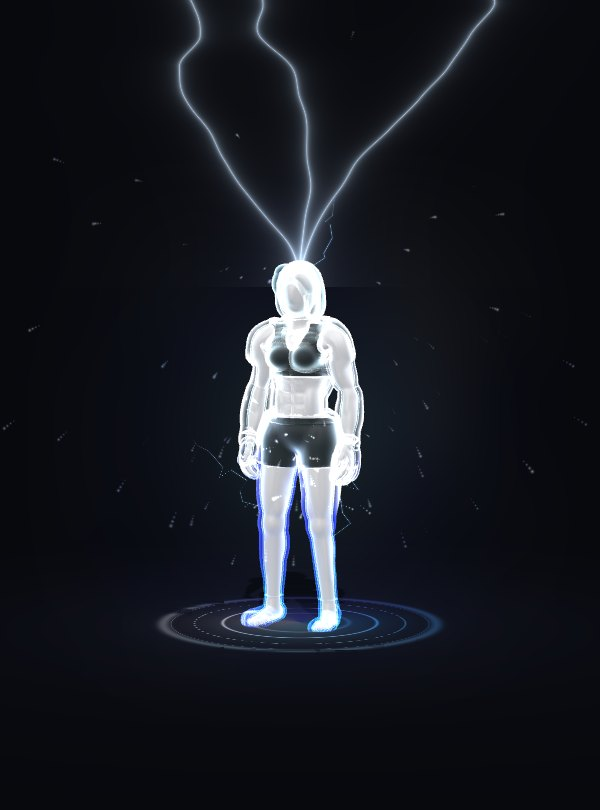
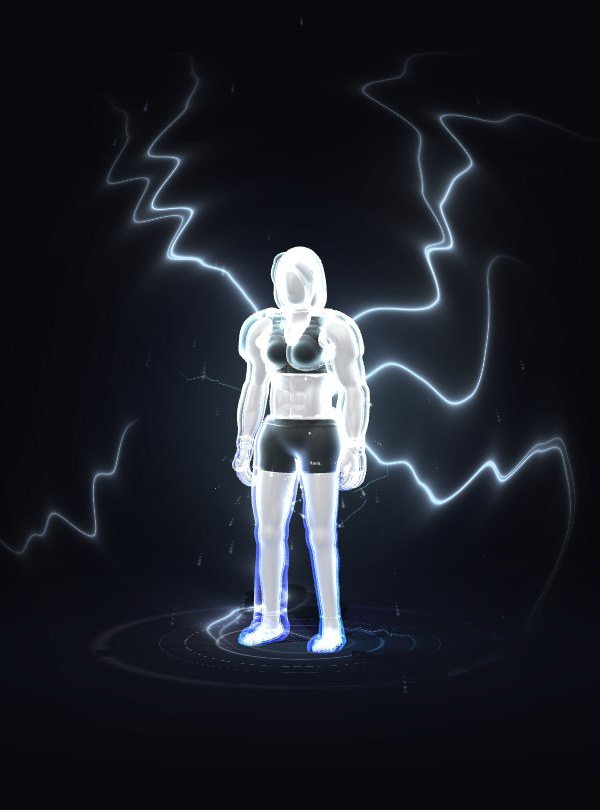
Welcome refined, theme cards as one compact row, Electric redrawn
- Get started is three quarters wide; the ignite starts slowly and gathers speed
- Sign in to start takes one rush of electric yellow
- Electric: forked lightning leaps out of the body; Aura card pictures re-rendered
- Theme cards: picture, name, line, colours and count, chosen mark, in one row

diff --git a/src/features/personalize/Personalize.tsx b/src/features/personalize/Personalize.tsx
@@ -135,27 +135,26 @@ function ThemeStep({ value, onChange, released, admin, character }: { value: The
         return (
           <button
             key={id} data-theme={id} data-scheme={t.scheme} aria-pressed={on} disabled={!open} onClick={() => onChange(id)}
-            className={cx('rise group relative isolate flex min-h-[200px] overflow-hidden rounded-card border bg-bg text-left text-ink transition-[box-shadow,transform] duration-300', on ? 'border-transparent shadow-[0_0_0_2px_var(--accent),0_24px_60px_-28px_var(--accent)]' : 'border-line-strong', !open && 'opacity-60')}
+            className={cx('rise group relative isolate flex items-center gap-4 overflow-hidden rounded-card border bg-bg p-3 pr-4 text-left text-ink transition-[box-shadow,transform] duration-300', on ? 'border-transparent shadow-[0_0_0_2px_var(--accent),0_24px_60px_-28px_var(--accent)]' : 'border-line-strong', !open && 'opacity-60')}
             style={{ animationDelay: `${i * 0.06}s` }}
           >
             <span className="page-glow !absolute" />
-            {/* A name, one line, its colours, a picture. What else a theme is, the athlete sees by trying it. */}
-            <span className="relative z-10 flex min-w-0 flex-1 flex-col justify-end p-4 pr-2 sm:p-5">
-              <span className="display block text-[34px] leading-[0.98] sm:text-[38px]">{t.name}</span>
-              <span className="display mt-2.5 block text-[17px] leading-[1.12] text-ink-2">{t.line}</span>
+            {/* One row, read left to right: the character in this theme's light, then its name, its line and its Auras, then whether it is the one chosen. */}
+            <span className="relative z-10 h-[116px] w-[92px] shrink-0 overflow-hidden rounded-[calc(var(--r-card)*0.6)] bg-(--stage) sm:w-[104px]">
+              {open
+                ? <img src={`${import.meta.env.BASE_URL}${posterOf(id, character)}`} alt="" loading="lazy" className="h-full w-full scale-[1.4] object-cover object-[50%_45%]" onError={(e) => { e.currentTarget.style.visibility = 'hidden' }} />
+                : <span className="flex h-full flex-col items-center justify-center gap-1.5 px-2 text-center text-[10.5px] leading-tight text-ink-3"><Lock size={14} />In preparation</span>}
+            </span>
+            <span className="relative z-10 min-w-0 flex-1">
+              <span className="display block text-[28px] leading-none sm:text-[30px]">{t.name}</span>
+              <span className="mt-2 block text-[13.5px] leading-snug text-ink-2">{t.line}</span>
               {/* Its Auras (or forms, or states), each in its own colour, and how many there are. */}
-              <span className="mt-4 flex items-center gap-2.5" data-forms>
-                <span className="flex gap-1.5">{u.list.map((f) => <span key={f.id} title={f.name} className="h-3 w-3 rounded-full" style={{ background: f.colour, boxShadow: `0 0 8px ${f.colour}` }} />)}</span>
-                <span className="text-[12.5px] text-ink-2">{u.list.length} {u.forms === 'Aura' ? 'Auras' : `${u.forms.toLowerCase()}s`}</span>
+              <span className="mt-3 flex items-center gap-2.5" data-forms>
+                <span className="flex gap-1.5">{u.list.map((f) => <span key={f.id} title={f.name} className="h-2.5 w-2.5 rounded-full" style={{ background: f.colour, boxShadow: `0 0 7px ${f.colour}` }} />)}</span>
+                <span className="text-[12px] text-ink-3">{u.list.length} {u.forms === 'Aura' ? 'Auras' : `${u.forms.toLowerCase()}s`}</span>
               </span>
             </span>
-            {/* The character of this universe, in its own light. */}
-            <span className="relative z-10 m-2.5 ml-0 w-[38%] shrink-0 overflow-hidden rounded-[calc(var(--r-card)*0.7)] bg-(--stage)">
-              {open
-                ? <img src={`${import.meta.env.BASE_URL}${posterOf(id, character)}`} alt="" loading="lazy" className="h-full w-full object-cover object-top" onError={(e) => { e.currentTarget.style.visibility = 'hidden' }} />
-                : <span className="flex h-full flex-col items-center justify-center gap-2 px-3 text-center text-[11.5px] text-ink-3"><Lock size={15} />In preparation</span>}
-            </span>
-            {on && <span className="absolute top-3 right-3 z-20 flex h-6 w-6 items-center justify-center rounded-full bg-accent text-accent-ink"><Check size={14} strokeWidth={3} /></span>}
+            <span className={cx('relative z-10 flex h-6 w-6 shrink-0 items-center justify-center rounded-full', on ? 'bg-accent text-accent-ink' : 'border border-line-strong')}>{on && <Check size={14} strokeWidth={3} />}</span>
           </button>
         )
       })}

diff --git a/src/features/onboarding/Onboarding.tsx b/src/features/onboarding/Onboarding.tsx
@@ -11,7 +11,7 @@ import { useStore } from '@/data/store'
 import { handleFree, signInWithGoogle, signOut, useCloud } from '@/data/cloud'
 import { GoogleButton, Notice } from '@/features/account/Account'
 import { requestCoach } from '@/features/account/CoachAccess'
-import { AuraField } from '@/ui/AuraField'
+import { AuraField, IGNITE_SECONDS } from '@/ui/AuraField'
 import { CountUp } from '@/ui/CountUp'
 import { DisciplineDot, Eyebrow, StatusTag, Stepper, Toggle } from '@/ui/primitives'
 import { Wordmark } from '@/app/Shell'
@@ -219,7 +219,7 @@ export function Onboarding() {
     if (igniting) return
     if (window.matchMedia('(prefers-reduced-motion: reduce)').matches) return then()
     setIgniting(true)
-    window.setTimeout(() => { then(); setIgniting(false) }, 1450)
+    window.setTimeout(() => { then(); setIgniting(false) }, IGNITE_SECONDS * 1000 - 80)
   }
   const firstName = name.trim().split(' ')[0] || 'Athlete'
 
@@ -253,7 +253,7 @@ export function Onboarding() {
                 <button onClick={() => setAccountStep(false)} aria-label="Back" className="pressable -ml-2 flex h-10 w-10 items-center justify-center rounded-full text-ink-2 hover:text-ink"><ArrowLeft size={19} /></button>
               </header>
               <div className="flex flex-1 flex-col justify-center">
-                <h1 className="display text-[42px] leading-[1.04]">Sign in to start.</h1>
+                <h1 className="display rush self-start text-[42px] leading-[1.04]">Sign in to start.</h1>
                 <p className="mt-4 text-[16px] leading-relaxed text-ink-2">So your results are saved, and still here the next time you open Aura.</p>
                 <p className="mt-4 text-[16px] leading-relaxed text-ink-2">Next come a few questions about what you can do today. It takes two minutes, and you get your first Aura score.</p>
               </div>
@@ -277,15 +277,15 @@ export function Onboarding() {
                 <AuraField mix={EVEN} aura={7200} size={Math.round(Math.min(300, Math.max(132, tall * 0.33)))} ignite={igniting}>
                   <Wordmark size={tall < 620 ? 40 : 54} />
                 </AuraField>
-                <h1 className={cx('display mt-[2.5dvh] text-[clamp(31px,5.6dvh,52px)] leading-[1.02] transition-opacity delay-700 duration-500', igniting && 'opacity-0')}>Discover the limitless potential <span className="italic">of your body.</span></h1>
-                <p className={cx('mt-[2dvh] max-w-sm text-[15.5px] leading-relaxed text-ink-2 transition-opacity delay-700 duration-500', igniting && 'opacity-0')}>
+                <h1 className={cx('display mt-[2.5dvh] text-[clamp(31px,5.6dvh,52px)] leading-[1.02] transition-opacity delay-[1700ms] duration-500', igniting && 'opacity-0')}>Discover the limitless potential <span className="italic">of your body.</span></h1>
+                <p className={cx('mt-[2dvh] max-w-sm text-[15.5px] leading-relaxed text-ink-2 transition-opacity delay-[1700ms] duration-500', igniting && 'opacity-0')}>
                   Aura shows you exactly where you are today, and every step to where you’ve always dreamed of going.
                 </p>
               </div>
               <div className={cx('flex w-full max-w-sm shrink-0 flex-col gap-2.5 pt-[2.5dvh] transition-opacity duration-500', igniting && 'pointer-events-none opacity-0')}>
                 {configured
-                  ? <button className="btn btn-primary btn-lg" data-get-started onClick={() => ignite(() => setAccountStep(true))}>Get started <ArrowRight size={17} /></button>
-                  : <button className="btn btn-primary btn-lg" data-get-started onClick={() => ignite(() => setStep(1))}>Begin <ArrowRight size={17} /></button>}
+                  ? <button className="btn btn-primary btn-lg w-3/4 self-center" data-get-started onClick={() => ignite(() => setAccountStep(true))}>Get started <ArrowRight size={17} /></button>
+                  : <button className="btn btn-primary btn-lg w-3/4 self-center" data-get-started onClick={() => ignite(() => setStep(1))}>Begin <ArrowRight size={17} /></button>}
                 {/* Only on a developer's machine (npm run dev): a public build never has this. */}
                 {configured && import.meta.env.DEV && (
                   <button className="btn btn-quiet btn-sm self-center" data-local-start onClick={() => ignite(() => setStep(1))}>Without signing in · this computer only</button>

diff --git a/src/styles/index.css b/src/styles/index.css
@@ -696,9 +696,13 @@
   mix-blend-mode: soft-light;
 }
 
-/* Ignite (the welcome's "Get started"): the border round the clock fills in the six colours, the field gathers, bursts, and is gone. */
+/* Ignite (the welcome's "Get started"): the border round the clock fills in the six colours, slowly at first and then faster,
+   while the field turns faster with it; then it gathers, bursts, and is gone. Timings go with IGNITE_* in AuraField.tsx. */
 .aura-ignite {
-  animation: aura-ignite 1.5s cubic-bezier(0.4, 0, 0.2, 1) forwards;
+  animation: aura-ignite 2.75s linear forwards;
+}
+.aura-ignite .aura-orbit {
+  animation: aura-ignite-spin 1.95s cubic-bezier(0.75, 0, 1, 0.6) forwards;
 }
 .aura-ignite-arc {
   stroke-dasharray: 1;
@@ -714,7 +718,7 @@
   box-shadow: 0 0 40px 10px color-mix(in oklab, var(--accent) 70%, transparent), inset 0 0 40px 6px color-mix(in oklab, var(--accent) 45%, transparent);
   opacity: 0;
   pointer-events: none;
-  animation: aura-ignite-wave 0.75s 0.82s cubic-bezier(0.2, 0.7, 0.3, 1) forwards;
+  animation: aura-ignite-wave 0.8s 2s cubic-bezier(0.2, 0.7, 0.3, 1) forwards;
 }
 .aura-ignite-flash {
   position: fixed;
@@ -722,16 +726,19 @@
   pointer-events: none;
   background: radial-gradient(circle at 50% 32%, rgba(255, 255, 255, 0.55), color-mix(in oklab, var(--accent) 30%, transparent) 35%, transparent 70%);
   opacity: 0;
-  animation: aura-ignite-flash 0.7s 0.85s ease-out forwards;
+  animation: aura-ignite-flash 0.75s 2.02s ease-out forwards;
 }
 @keyframes aura-ignite-arc {
   to { stroke-dashoffset: 0; }
 }
+@keyframes aura-ignite-spin {
+  to { transform: rotate(600deg); }
+}
 @keyframes aura-ignite {
-  0% { transform: scale(1); filter: brightness(1); }
-  45% { transform: scale(1.03); filter: brightness(1.25); }
-  56% { transform: scale(0.95); filter: brightness(1.45); }
-  68% { transform: scale(1.18); filter: brightness(2.1) saturate(1.3); opacity: 1; }
+  0% { transform: scale(1); filter: brightness(1); animation-timing-function: ease-in; }
+  62% { transform: scale(1.04); filter: brightness(1.35); animation-timing-function: ease-in-out; }
+  71% { transform: scale(0.94); filter: brightness(1.55); animation-timing-function: cubic-bezier(0.2, 0.7, 0.3, 1); }
+  79% { transform: scale(1.18); filter: brightness(2.1) saturate(1.3); opacity: 1; }
   100% { transform: scale(1.9); filter: brightness(2.6) saturate(1.2); opacity: 0; }
 }
 @keyframes aura-ignite-wave {
@@ -744,7 +751,30 @@
   100% { opacity: 0; }
 }
 @media (prefers-reduced-motion: reduce) {
-  .aura-ignite, .aura-ignite-arc, .aura-ignite-wave, .aura-ignite-flash { animation-duration: 0.01s; animation-delay: 0s; }
+  .aura-ignite, .aura-ignite .aura-orbit, .aura-ignite-arc, .aura-ignite-wave, .aura-ignite-flash { animation-duration: 0.01s !important; animation-delay: 0s !important; }
+}
+
+/* A heading that takes one rush of electric yellow, left to right, and is itself again (the account step). */
+.rush {
+  background: linear-gradient(100deg, var(--text) 0%, var(--text) 38%, #ffd400 45%, #fff8b8 50%, #ffe600 55%, var(--text) 62%, var(--text) 100%);
+  background-size: 320% 100%;
+  background-position: 100% 0;
+  -webkit-background-clip: text;
+  background-clip: text;
+  -webkit-text-fill-color: transparent;
+  color: transparent;
+  animation: rush 1.15s 0.45s cubic-bezier(0.5, 0, 0.3, 1) both, rush-glow 1.15s 0.45s ease-in-out both;
+}
+@keyframes rush {
+  from { background-position: 100% 0; }
+  to { background-position: 0 0; }
+}
+@keyframes rush-glow {
+  0%, 100% { filter: none; }
+  45% { filter: drop-shadow(0 0 14px rgba(255, 224, 0, 0.75)); }
+}
+@media (prefers-reduced-motion: reduce) {
+  .rush { animation: none; background-position: 0 0; }
 }
 
 @keyframes aura-orbit {

diff --git a/src/visual/aura/field.ts b/src/visual/aura/field.ts
@@ -217,21 +217,32 @@ export class AuraField {
           col = mix(pal(gr * 0.5 + ga * 0.159), vec3(1.0), min(1.0, core * 0.8 + star));
           a = (disc * 1.5 + core * 0.9 + star) * inn * fade;
         } else if (uKind < 2.5) {
-          // Bolt: lightning comes down out of the dark and meets at the head, again and again, with a flash.
-          float flick = floor(b * 11.0);
+          // Bolt: the body is where the lightning comes from. Forked arcs leap out of the chest in every direction, never the same twice, with a flash.
+          vec2 d2 = q - vec2(0.0, 0.1);
+          float er = length(d2), eth = atan(d2.y, d2.x);
+          float flick = floor(b * 13.0);
           float sum = 0.0;
-          for (int i = 0; i < 3; i++) {
+          for (int i = 0; i < 8; i++) {
             float fi = float(i);
-            float seed = fi * 7.31 + flick * 1.7;
-            float on = step(0.12, hash(vec3(seed, 1.0, 2.0)));
-            float top = smoothstep(0.44, 1.5, q.y);
-            float px = ((fi - 1.0) * 0.6 + (noise(vec3(q.y * 3.2, seed, 0.0)) - 0.5) * 0.8 + (noise(vec3(q.y * 11.0, seed, 3.0)) - 0.5) * 0.18) * top;
-            float d = abs(q.x - px);
-            sum += on * (0.006 / (d + 0.005)) * exp(-d * 5.0) * step(0.44, q.y);
+            float seed = fi * 5.17 + flick * 2.3;
+            float h1 = hash(vec3(seed, 1.0, 2.0)), h2 = hash(vec3(seed, 4.0, 9.0));
+            float reach = (0.5 + 0.85 * h2) * (0.55 + 0.45 * grow);
+            // Each arc wanders off its line more the further out it gets, in large kinks and small ones.
+            float wander = ((noise(vec3(er * 4.5, seed, 0.0)) - 0.5) * 1.1 + (noise(vec3(er * 15.0, seed, 3.0)) - 0.5) * 0.3) * smoothstep(0.0, 0.35, er);
+            float at = (fi + h1) / 8.0 * 6.2832 + wander;
+            float da = abs(mod(eth - at + 3.1416, 6.2832) - 3.1416);
+            float d = da * er;
+            float taper = smoothstep(reach, reach * 0.55, er) * smoothstep(0.03, 0.12, er);
+            sum += step(0.22, h1) * (0.0075 / (d + 0.005)) * exp(-d * 6.0) * taper;
+            // A fork leaves it part of the way out.
+            float fat = at + (h2 - 0.5) * 1.3 * smoothstep(reach * 0.4, reach, er);
+            float fd = abs(mod(eth - fat + 3.1416, 6.2832) - 3.1416) * er;
+            sum += step(0.5, h2) * (0.0035 / (fd + 0.004)) * exp(-fd * 9.0) * taper * smoothstep(reach * 0.4, reach * 0.5, er);
           }
-          float flash = exp(-b * 8.0) * exp(-r * 1.3);
-          col = mix(uPal[1], vec3(1.0), 0.78);
-          a = (min(sum, 2.5) * 0.7 * (1.0 - smoothstep(1.0, 1.6, b)) + flash) * inn;
+          float flash = exp(-b * 7.0) * exp(-er * er * 2.4);
+          float charge = exp(-er * er * 9.0) * 0.25 * (0.6 + 0.4 * sin(uTime * 40.0));
+          col = mix(uPal[1], vec3(1.0), 0.72);
+          a = (min(sum, 2.5) * 0.9 * (1.0 - smoothstep(1.2, 1.9, b)) + flash + charge * fade) * inn;
         } else if (uKind < 3.5) {
           // Sun: it rises behind the shoulders, a bright disc with a turning corona, and the body stands against it.
           vec2 d2 = q - vec2(0.0, mix(-0.3, 0.2, grow));

diff --git a/src/ui/AuraField.tsx b/src/ui/AuraField.tsx
@@ -5,6 +5,11 @@ import { dvar } from '@/lib/format'
 /** Clockwise from the top. Shared by the Aura field and the DNA sigil. */
 export const WHEEL: DisciplineId[] = ['handstand', 'push', 'core', 'legs', 'mobility', 'pull']
 
+/** Ignite: how long the ring takes to fill (seconds), how strongly it accelerates, and how long the whole thing lasts until the next screen. */
+const IGNITE_FILL = 1.7
+const IGNITE_EASE = 2.6
+export const IGNITE_SECONDS = 2.75
+
 interface Props {
   /** Each discipline's share of the athlete's total rating. */
   mix: Record<DisciplineId, number>
@@ -112,7 +117,8 @@ export function AuraField({ mix, aura, size = 320, progress, rings = true, ignit
               <path
                 key={d} d={`M ${at(i * 60)} A ${r} ${r} 0 0 1 ${at(i * 60 + 60.5)}`} pathLength={1}
                 className="aura-ignite-arc" fill="none" stroke={dvar(d)} strokeWidth="1.3" strokeLinecap="round"
-                style={{ animationDelay: `${i * 0.12}s` }}
+                // It starts slowly and gathers speed: each sixth of the ring takes less time than the one before.
+                style={{ animationDelay: `${IGNITE_FILL * Math.pow(i / 6, 1 / IGNITE_EASE)}s`, animationDuration: `${IGNITE_FILL * (Math.pow((i + 1) / 6, 1 / IGNITE_EASE) - Math.pow(i / 6, 1 / IGNITE_EASE))}s` }}
               />
             )
           })}

diff --git a/REGISTER.md b/REGISTER.md
@@ -193,10 +193,10 @@ Reference: [VISUALS.md](VISUALS.md) §11 to §13. Theme data: `src/theme/`. "Pro
 | F-152 | **The sample world is no longer offered on the welcome screen** (owner's request, 2026-11-19). It still exists for testing and is opened by address only: `…/?demo` | Sample data | T-20; every journey now enters this way | Nobody finds it by accident. Coach Studio can therefore be looked at without an account only by someone who knows the address | F-01 |
 | F-153 | **At rest an Aura is a strong glow; Activate charges it and lets it burst.** Every theme in every universe: only the burning outline and its field while standing; rays, ribbons, particles, streams, rings, lightning only in a burst. *Activate* on the character (profile, Personalize, Character Studio) gathers for about a second, bursts, and settles. A set in a demonstration no longer bursts by itself | Working (local) | Rendered at rest, gathering, bursting and after, for 4 Aura themes, 4 Goku forms, 3 Baki forms and the paper stage (Goku Light); on the profile: Activate charges, bursts, is ready again (T-20) | Changes how every Aura looks: **look at your forms in the Character Studio**. The theme posters shown before a character is chosen are still the earlier pictures, with ribbons. The instructor screen still bursts in Electric. Exercise demonstrations show no Aura, as before | F-120, F-148 |
 | F-154 | **The introduction lights what it talks about in the theme's colour**, with a glow round it, and the tab of the page you are on is in that colour too. It ends on *Go to profile*, with *Start first training* under it, quieter. Back on the profile, **Personalize wears an Aura**: a ring of the six discipline colours turns round the button with their light pulsing behind it (made stronger at the owner's request the same day), until the button is pressed once or nothing is left to personalize | Working (local) | T-20: the lit tab in the theme colour, the ending's two actions, Personalize calling with its ring and light, still calling with a theme already chosen, stopping once pressed; the journeys re-run | The glow shows only after the introduction was seen or skipped, so it never competes with "Start here" | F-143 |
-| F-155 | **The theme cards are a name, one line, the colours of its Auras with how many there are, and a picture** (first cut to name, line and picture; the colours and count came back the same day at the owner's request; the tooltip is gone). The Aura themes' picture is now the master character in the **Electric** Aura under its lightning (`npm run posters -- aura`, `scripts/render-posters.mjs`, from the live 3D characters). The page's own line is one sentence | Working (local) | In a browser: the card's text, the new picture on both Aura cards (owner's screenshot 2026-11-19 as the brief) | **Only the two Aura pictures were remade.** Goku, Goku Light and Baki keep their earlier pictures; the same script remakes them when wanted. The picture shows Electric although an athlete starts in Cosmic: it shows what the theme can be | F-121 |
-| F-156 | **"Get started" ignites the circle**: the ring round the clock fills clockwise in the six discipline colours, the Aura gathers and bursts outward in a wave and a flash, and the next screen comes out of it (about 1.5 s). Also on *Begin* (without accounts). With reduced motion it goes straight on | Working (local) | Filmed in a browser at eight moments; the account step follows; the onboarding journey re-run with it | – | F-150 |
+| F-155 | **The theme cards are one compact row**: the character's picture, then the name, one line, the colours of its Auras with how many there are, then whether it is chosen (rebuilt at the owner's request; a card is about 140 high where it was over 200) (first cut to name, line and picture; the colours and count came back the same day at the owner's request; the tooltip is gone). The Aura themes' picture is now the master character in the **Electric** Aura with lightning leaping out of the body (`npm run posters -- aura`, `scripts/render-posters.mjs`, from the live 3D characters). The page's own line is one sentence | Working (local) | In a browser: the card's text, the new picture on both Aura cards (owner's screenshot 2026-11-19 as the brief) | **Only the two Aura pictures were remade.** Goku, Goku Light and Baki keep their earlier pictures; the same script remakes them when wanted. The picture shows Electric although an athlete starts in Cosmic: it shows what the theme can be | F-121 |
+| F-156 | **"Get started" ignites the circle**: the ring round the clock fills clockwise in the six discipline colours, the Aura gathers and bursts outward in a wave and a flash, and the next screen comes out of it. **It starts slowly and gathers speed** (about 2.7 s in all; the first version was 1.5 s and felt rushed). The button is three quarters of the width. On the next screen, *Sign in to start.* takes one rush of electric yellow from left to right and is white again. Also on *Begin* (without accounts). With reduced motion it goes straight on | Working (local) | Filmed in a browser at eight moments; the account step follows; the onboarding journey re-run with it | – | F-150 |
 | F-157 | **On a developer's machine only, a way in without Google**: *Without signing in · this computer only* on the welcome, under Get started. It runs the same questions and makes a local profile on that computer. **That profile is treated as the owner's**: every theme is open (also the unreleased ones), every form can be worn, and the Studio opens | Working (local) | In a browser, with the project configured: the button, the questions, the starting line, the profile; **checked absent from the public build** | Exists only in `npm run dev` (`import.meta.env.DEV`): the public site never shows it. A profile made this way is not an account and is not synced | F-01 |
-| F-158 | **Every Aura has its own activation**, after its name: galaxy (Cosmic, Zeno), lightning (Electric), a rising sun (Solar), aurora wings (Ethereal), an eruption (Primal), the six-colour wheel (Signature), an eclipse (Lunar), a pillar of fire (Saiyan), a nimbus (God), a growing sphere (Destruction), racing rings (Kaio-ken), one quiet ripple (Ultra Instinct), steam (Pressure, Tempered), a hammer strike (Forged), two hard rings (Unbroken), heavy beats (Apex). No swirling lines in any of them; the outline stays thin in the burst | Working (local) | All 18 rendered at two moments and looked at, twice; two on the paper stage; journeys re-run | **Look at them yourself**: Character Studio → a form → Activate. Seen in still frames, not judged in motion by a person. The full table is in VISUALS.md §6 | F-153 |
+| F-158 | **Every Aura has its own activation**, after its name: galaxy (Cosmic, Zeno), lightning leaping out of the body in forks (Electric; first drawn coming down onto the head, changed at the owner's request), a rising sun (Solar), aurora wings (Ethereal), an eruption (Primal), the six-colour wheel (Signature), an eclipse (Lunar), a pillar of fire (Saiyan), a nimbus (God), a growing sphere (Destruction), racing rings (Kaio-ken), one quiet ripple (Ultra Instinct), steam (Pressure, Tempered), a hammer strike (Forged), two hard rings (Unbroken), heavy beats (Apex). No swirling lines in any of them; the outline stays thin in the burst | Working (local) | All 18 rendered at two moments and looked at, twice; two on the paper stage; journeys re-run | **Look at them yourself**: Character Studio → a form → Activate. Seen in still frames, not judged in motion by a person. The full table is in VISUALS.md §6 | F-153 |
 | F-159 | **Fixed: the coloured ring round the initials disappeared** for anyone with most of their rating in one or two areas (every new athlete). The colour strength went past 100% and the browser dropped the whole ring. Someone with nothing rated now wears all six colours evenly | Working (local) | In a browser on a fresh profile with three answers: the ring is there | Not from today's changes: it was there since the ring was built, and the sample athlete, being balanced, never showed it. Affects every list that shows the ring | – |
 
 ### A coach sees their students (added 2026-11-19)
@@ -420,6 +420,11 @@ Reference: [VISUALS.md](VISUALS.md) §11 to §13. Theme data: `src/theme/`. "Pro
 | Data protection | Any real athletes | Privacy notice, deletion and export, consent for under-18s in classes |
 
 ## F · Change log
+
+**2026-11-19 · Welcome and theme cards refined; Electric redrawn**
+
+- At the owner's request: a narrower Get started button; the ignite starts slow and accelerates (F-156); a yellow rush across *Sign in to start.*; Electric's lightning now leaps out of the body instead of coming down onto the head (F-158), with the Aura cards' pictures re-rendered; theme cards rebuilt as one compact row (F-155).
+- Journeys 61, 44, 21, 21; 649 tests. **Not on a real phone.** Not published.
 
 **2026-11-19 · Personalize calls louder**
 

diff --git a/VISUALS.md b/VISUALS.md
@@ -126,7 +126,7 @@ Together these are every exercise of the first-day assessment (all 67 of its gui
 | Aura | Sign | With |
 |---|---|---|
 | Cosmic | **Galaxy**: a spiral disc opens behind the body, its stars come out | particles |
-| Electric | **Bolt**: lightning comes down and meets at the head, with a flash | lightning between the limbs, sparks, ground rings |
+| Electric | **Bolt**: forked lightning leaps out of the chest in every direction, never the same twice, with a flash (first drawn coming down onto the head; changed at the owner's request) | lightning between the limbs, sparks, ground rings |
 | Solar | **Sun**: rises behind the shoulders, disc and turning corona | rays, particles |
 | Ethereal | **Aurora**: curtains of light in an arch, like wings | particles |
 | Primal | **Pillar**, as an eruption: wide, rough fire from the floor | streams, sparks, ground rings |
